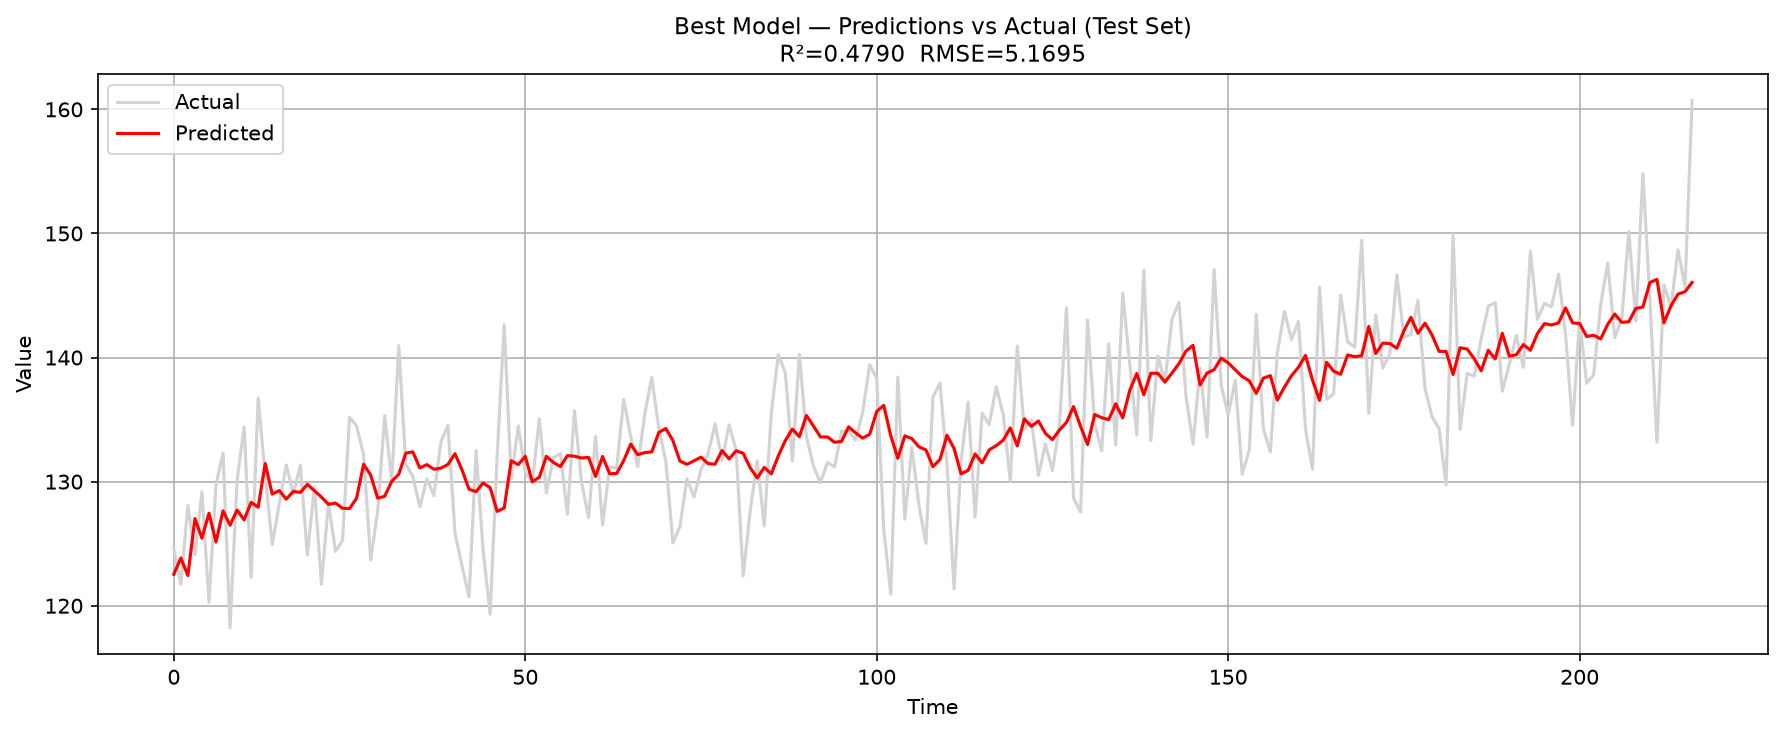
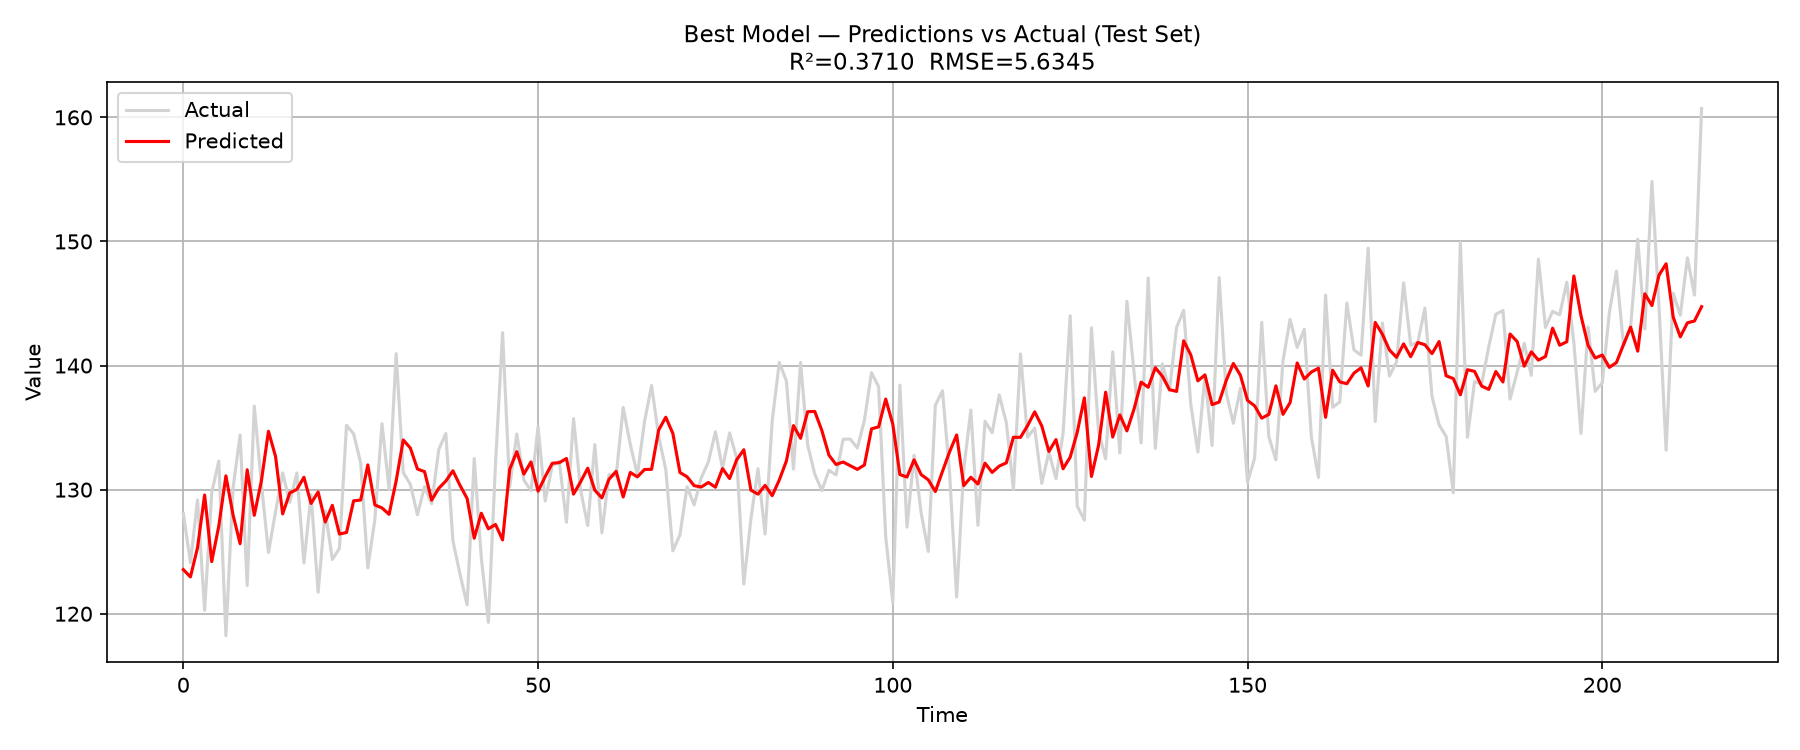
ai-note74: update v13 reload to pick winner by validation loss
- Config block reads search_results_12.xlsx sorted by val_loss (same rule as v12)
- What-you-should-see output refreshed from the new v12 winner (window 30, 32x2)
- Scores now R2 0.3710 / RMSE 5.6345; test days 215; model file about 11 KB
- Series summary updated: 29 past values, about 0.37 explained
- Full script dump replaced with local time_13.py
- AI Notes v13 card updated to the new score
- Replaced time_13.py in Folder-AI-Forecast.zip

Changed region(s): [[0.0308, 0.03, 1.0, 0.9891], [0.0, 0.4496, 0.0617, 0.5395], [0.9254, 0.5395, 0.9563, 0.5995]]

diff --git a/notes/ai-note74.html b/notes/ai-note74.html
@@ -85,8 +85,8 @@
     The last line of version 12's model section is
     <code>torch.save(best_trial["model"].state_dict(), "best_model_12.pt")</code>. A
     <code>state_dict</code> is a dictionary of numbers: the weights and biases of each layer, named
-    after the layer they belong to. It holds no program and no settings, and the file is a little over
-    half a megabyte.
+    after the layer they belong to. It holds no program and no settings, and with this winner the
+    file is only about eleven kilobytes &mdash; small enough to send by email.
   </p>
   <p>
     So the file cannot rebuild itself. Version 13 has to supply the shape &mdash; how many layers, how
@@ -105,7 +105,7 @@ MODEL_FILE   = "best_model_12.pt"
 BATCH_SIZE   = 32
 
 results  = pd.read_excel(RESULTS_FILE)
-best_row = results.sort_values("r2", ascending=False).iloc[0]
+best_row = results.sort_values("val_loss").iloc[0]
 
 BEST_CFG = {
     "window_size": int(best_row["window_size"]),
@@ -113,10 +113,11 @@ BEST_CFG = {
     "num_layers":  int(best_row["num_layers"]),
 }</code></pre>
   <p>
-    <code>read_excel</code> loads the 200-row table. Sorting it by <code>r2</code>, highest first,
-    and taking <code>.iloc[0]</code> picks the winning row, and the three settings that decide the
-    shape are copied out by column name. <code>int()</code> turns them into plain integers, because
-    layer sizes must be plain integers.
+    <code>read_excel</code> loads the 200-row table. Sorting it by <code>val_loss</code>, lowest
+    first, and taking <code>.iloc[0]</code> picks the winning row &mdash; the same rule the search
+    itself used in version 12 &mdash; and the three settings that decide the shape are copied out by
+    column name. <code>int()</code> turns them into plain integers, because layer sizes must be plain
+    integers.
   </p>
   <p>
     Only three of the six settings are needed. Epochs, learning rate and optimizer belong to a
@@ -188,7 +189,7 @@ with torch.no_grad():
   <p>
     Because the model is already trained, you can also use it on different data. Put the new sales
     values in a CSV file in the same format, keep the same window size, and run the program again. It
-    loads the saved weights and produces predictions for those new days instead of the 217 test days.
+    loads the saved weights and produces predictions for those new days instead of the 215 test days.
   </p>
 
   <h3>4. Compute the four measures</h3>
@@ -208,20 +209,20 @@ r2   = (1 - torch.sum((a - p) ** 2) / torch.sum((a - torch.mean(a)) ** 2)).item(
     The complete output of a real run, unedited:
   </p>
   <pre class="code-block no-copy"><code>Loaded: best_model_12.pt
-Config: {'window_size': 20, 'hidden_size': 256, 'num_layers': 3}
+Config: {'window_size': 30, 'hidden_size': 32, 'num_layers': 2}
 
 Test Set Metrics:
-  MAE:  4.1235
-  MSE:  26.7236
-  RMSE: 5.1695
-  R²:   0.4790
+  MAE:  4.4603
+  MSE:  31.7479
+  RMSE: 5.6345
+  R²:   0.3710
 Saved: best_model_predictions.png</code></pre>
   <p>
     The four numbers match what version 12 printed for its winner exactly, to the fourth decimal
     place. Nothing was trained, nothing was shuffled, and no random seed took part in the scoring. The
-    same weights on the same 217 days give the same answer, which is what a saved model is for.
+    same weights on the same 215 days give the same answer, which is what a saved model is for.
   </p>
-  <figure class="exhibit"><img src="/images/forecast-v13-predictions.png" alt="Actual daily sales in pale grey and the saved model's predictions as a red line that follows the upward trend while smoothing the day-to-day swings" style="max-width:100%; height:auto;"><figcaption>Actual (grey) and predicted (red) values over the 217 test days, produced by loading <code>best_model_12.pt</code> and running no training. The chart is titled with R&sup2; 0.4790 and RMSE 5.1695.</figcaption></figure>
+  <figure class="exhibit"><img src="/images/forecast-v13-predictions.png" alt="Actual daily sales in pale grey and the saved model's predictions as a red line that follows the upward trend while smoothing the day-to-day swings" style="max-width:100%; height:auto;"><figcaption>Actual (grey) and predicted (red) values over the 215 test days, produced by loading <code>best_model_12.pt</code> and running no training. The chart is titled with R&sup2; 0.3710 and RMSE 5.6345.</figcaption></figure>
 
   <h2>The series in one view</h2>
   <p>
@@ -236,10 +237,10 @@ Saved: best_model_predictions.png</code></pre>
   </p>
   <p>
     What the model can do is modest: it follows the level and the slow upward drift of the series,
-    turning 19 past values into one number in a fraction of a second. It cannot follow the daily
-    swings; an R&sup2; of about 0.48 means roughly half of the variation in the test days is still
-    unexplained. The network sees only the recent sales values, so it does not know the day of the
-    week, the month or a holiday.
+    turning 29 past values into one number in a fraction of a second. It cannot follow the daily
+    swings; an R&sup2; of about 0.37 means roughly two-thirds of the variation in the test days is
+    still unexplained. The network sees only the recent sales values, so it does not know the day of
+    the week, the month or a holiday.
   </p>
   <p>
     A better next step is not a bigger search but better inputs or a different kind of model, such as
@@ -253,7 +254,7 @@ Saved: best_model_predictions.png</code></pre>
     The pieces above, put back together. This is the complete file:
   </p>
   <pre class="code-block"><code>import os
-os.environ["KMP_DUPLICATE_LIB_OK"] = "TRUE"
+os.environ[&quot;KMP_DUPLICATE_LIB_OK&quot;] = &quot;TRUE&quot;
 
 import torch
 import torch.nn as nn
@@ -262,26 +263,26 @@ import numpy as np
 import matplotlib.pyplot as plt
 from torch.utils.data import TensorDataset, DataLoader, Subset
 
-# ── Best config, read from search_results_12.xlsx (Rank 1) ───────────────────
-RESULTS_FILE = "search_results_12.xlsx"
-MODEL_FILE   = "best_model_12.pt"
+# ── Best config, selected by validation loss in search_results_12.xlsx ───────
+RESULTS_FILE = &quot;search_results_12.xlsx&quot;
+MODEL_FILE   = &quot;best_model_12.pt&quot;
 BATCH_SIZE   = 32
 
 results  = pd.read_excel(RESULTS_FILE)
-best_row = results.sort_values("r2", ascending=False).iloc[0]
+best_row = results.sort_values(&quot;val_loss&quot;).iloc[0]
 
 BEST_CFG = {
-    "window_size": int(best_row["window_size"]),
-    "hidden_size": int(best_row["hidden_size"]),
-    "num_layers":  int(best_row["num_layers"]),
+    &quot;window_size&quot;: int(best_row[&quot;window_size&quot;]),
+    &quot;hidden_size&quot;: int(best_row[&quot;hidden_size&quot;]),
+    &quot;num_layers&quot;:  int(best_row[&quot;num_layers&quot;]),
 }
 
 # ── Load data ─────────────────────────────────────────────────────────────────
-df = pd.read_csv("time_series.csv")
-series = df["series"].values
+df = pd.read_csv(&quot;time_series.csv&quot;)
+series = df[&quot;series&quot;].values
 series_tensor = torch.tensor(series, dtype=torch.float32)
 
-window_size = BEST_CFG["window_size"]
+window_size = BEST_CFG[&quot;window_size&quot;]
 windows     = series_tensor.unfold(0, window_size, 1)
 features    = windows[:, :-1]
 targets     = windows[:, -1:]
@@ -292,7 +293,7 @@ val_end = int(total * 0.85)
 test_loader = DataLoader(Subset(full_dataset, range(val_end, total)),
                          batch_size=BATCH_SIZE, shuffle=False)
 
-device = torch.device("cuda" if torch.cuda.is_available() else "cpu")
+device = torch.device(&quot;cuda&quot; if torch.cuda.is_available() else &quot;cpu&quot;)
 
 # ── Rebuild model architecture &amp; load weights ─────────────────────────────────
 def build_model(input_size, hidden_size, num_layers):
@@ -303,12 +304,12 @@ def build_model(input_size, hidden_size, num_layers):
     layers.append(nn.Linear(in_dim, 1))
     return nn.Sequential(*layers)
 
-model = build_model(window_size - 1, BEST_CFG["hidden_size"], BEST_CFG["num_layers"])
+model = build_model(window_size - 1, BEST_CFG[&quot;hidden_size&quot;], BEST_CFG[&quot;num_layers&quot;])
 model.load_state_dict(torch.load(MODEL_FILE, map_location=device))
 model.to(device)
 model.eval()
-print(f"Loaded: {MODEL_FILE}")
-print(f"Config: {BEST_CFG}\n")
+print(f&quot;Loaded: {MODEL_FILE}&quot;)
+print(f&quot;Config: {BEST_CFG}\n&quot;)
 
 # ── Evaluate ──────────────────────────────────────────────────────────────────
 preds, actuals = [], []
@@ -325,24 +326,25 @@ mse  = torch.mean((p - a) ** 2).item()
 rmse = torch.sqrt(torch.tensor(mse)).item()
 r2   = (1 - torch.sum((a - p) ** 2) / torch.sum((a - torch.mean(a)) ** 2)).item()
 
-print(f"Test Set Metrics:")
-print(f"  MAE:  {mae:.4f}")
-print(f"  MSE:  {mse:.4f}")
-print(f"  RMSE: {rmse:.4f}")
-print(f"  R²:   {r2:.4f}")
+print(f&quot;Test Set Metrics:&quot;)
+print(f&quot;  MAE:  {mae:.4f}&quot;)
+print(f&quot;  MSE:  {mse:.4f}&quot;)
+print(f&quot;  RMSE: {rmse:.4f}&quot;)
+print(f&quot;  R²:   {r2:.4f}&quot;)
 
 # ── Plots ─────────────────────────────────────────────────────────────────────
 # 1. Predictions vs actual
 plt.figure(figsize=(12, 5))
-plt.plot(actuals, label="Actual",    color="lightgrey", linewidth=1.5)
-plt.plot(preds,   label="Predicted", color="red",       linewidth=1.5)
-plt.title(f"Best Model — Predictions vs Actual (Test Set)\nR²={r2:.4f}  RMSE={rmse:.4f}", fontsize=11)
-plt.xlabel("Time"); plt.ylabel("Value")
+plt.plot(actuals, label=&quot;Actual&quot;,    color=&quot;lightgrey&quot;, linewidth=1.5)
+plt.plot(preds,   label=&quot;Predicted&quot;, color=&quot;red&quot;,       linewidth=1.5)
+plt.title(f&quot;Best Model — Predictions vs Actual (Test Set)\nR²={r2:.4f}  RMSE={rmse:.4f}&quot;, fontsize=11)
+plt.xlabel(&quot;Time&quot;); plt.ylabel(&quot;Value&quot;)
 plt.legend(); plt.grid(True)
 plt.tight_layout()
-plt.savefig("best_model_predictions.png", dpi=150)
+plt.savefig(&quot;best_model_predictions.png&quot;, dpi=150)
 plt.show()
-print("Saved: best_model_predictions.png")</code></pre>
+print(&quot;Saved: best_model_predictions.png&quot;)
+</code></pre>
 
   <h2>Running it on your own computer</h2>
   <p>

diff --git a/ai-programs.html b/ai-programs.html
@@ -89,7 +89,7 @@
   <div class="card" data-track="forecast">
     <h3><a href="notes/ai-note74.html">How to reuse the model you already trained (Forecast, version 13)?</a></h3>
     <p class="meta">Howard Pong Yuen Lam &middot; November 13, 2026 &middot; 5 min read</p>
-    <p>The winner saved by version 12 is loaded and graded without any training: the same R&sup2; 0.4790 appears in seconds. Closes the series with an honest look at what the model does and does not know.</p>
+    <p>The winner saved by version 12 is loaded and graded without any training: the same R&sup2; 0.3710 appears in seconds. Closes the series with an honest look at what the model does and does not know.</p>
   </div>
 
   <div class="card" data-track="forecast">
